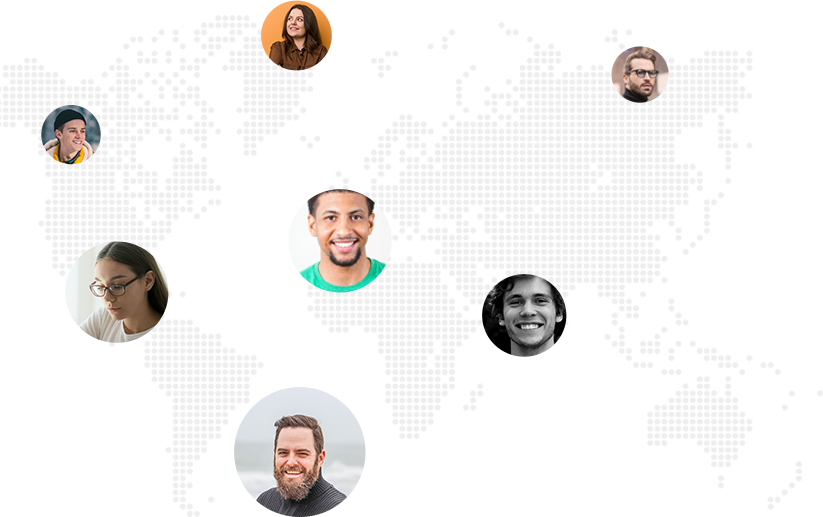
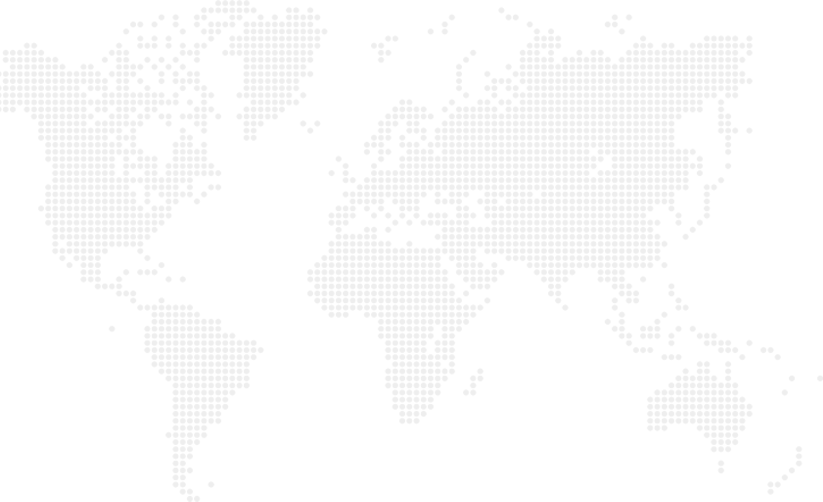
map

diff --git a/css/style.css b/css/style.css
@@ -75,12 +75,14 @@ h1 {
     top: 0;
     background-color: #ffffff;
     padding: 10px;
+    z-index: 2;
 }
 .header .header-navbar {
     display: flex;
     justify-content: space-between;
     align-items: center;
     z-index: 9999;
+   
 }
 .header .header-navbar .header-navbar__logo {
     font-size: 30px;
@@ -795,14 +797,22 @@ margin: 0;
     /* box-sizing: border-box; */
     /* z-index: 99; */
     min-width:315px ;
+    transition: 350ms ease;
 }
 .action_box_left{
-    box-shadow: 0  10px 50px 0;
+    border: 2px solid #ebebeb;
     border-radius: 8px;
     overflow: hidden;
     /* z-index: 1; */
+    transition: 350ms ease;
 }
-
+.action_box_right:hover,
+.action_box_left:hover{
+    box-shadow: 0  10px 50px 0;
+}
+.action_box_left:hover{
+    align-self: stretch;
+}
 .action_box_right_down{
     background-color: #fff;
 }
@@ -813,7 +823,7 @@ margin: 0;
     margin-bottom: 40px;
     display: flex;
     justify-content: center;
-
+user-select: none;
     /* !!!!!! */
     
 
@@ -825,6 +835,7 @@ background-color: rgb(240, 240, 240);
 
 .switcher_blue>input {
     display: none;
+    z-index: -1;
 }
 /* !!!!!! */
 /* .switcher_blue{
@@ -839,6 +850,7 @@ background-color: rgb(240, 240, 240);
     box-shadow: inset rgba(0,0,0,.2) 0 0 .3em;
     transition: 250ms ease;
     padding: 2px 15px 2px 2px;
+    z-index: -1;
 
 }
 
@@ -848,6 +860,7 @@ background-color: rgb(240, 240, 240);
     align-items: center;
     padding-right: 45px;
     line-height:44px;
+    /* z-index: -1; */
    
 }
 .switcher_blue>input+div::before {
@@ -868,7 +881,7 @@ background-color: rgb(240, 240, 240);
     transform: translateX(0);
 
     /* position: absolute; */
-    z-index: 1;
+    /* z-index: -1; */
 }
 
 
@@ -876,13 +889,14 @@ background-color: rgb(240, 240, 240);
 .switcher .switcher_blue>input:checked+div {
     background-color: #2500f9;
     color:#2500f9;
+    /* z-index: 0; */
     
 }
 .switcher_blue>input:checked+div::before {
     background-color: #2500f9;
     transform: translateX(80px);
     /* position: absolute; */
-    z-index: 0;
+    /* z-index: 0; */
       
 }
 
@@ -921,7 +935,7 @@ background-color: rgb(240, 240, 240);
 .satisfaction  .container{
     display: flex;
     max-width: 1600px;
-    
+    align-items: center;
 }
 
 .satisfaction_right h2{
@@ -958,7 +972,43 @@ background-color: rgb(240, 240, 240);
     max-width: 800px;
     flex-basis: 37.5%;
     padding-top:90px ;
+    position: relative;
 }
+.map-avatar{
+    position: absolute;
+    top: 15%;
+    left: 33%;
+}   
+.map-avatar_2{
+    position: absolute;
+    top: 31%;
+    left: 5.5%;
+}  
+.map-avatar_3{
+    position: absolute;
+    top: 54%;
+    left: 8%;
+}  
+.map-avatar_4{
+    position: absolute;
+    top: 45%;
+    left: 36%;
+} 
+.map-avatar_5{
+    position: absolute;
+    top: 77%;
+    left: 29%;
+} 
+.map-avatar_6{
+    position: absolute;
+    top: 60%;
+    left: 60%;
+} 
+.map-avatar_7{
+    position: absolute;
+    top: 22%;
+    left: 76.5%;
+} 
 .satisfaction_hiden{
     flex-basis: 13%;
 }
@@ -994,6 +1044,10 @@ color: #2500f9;
     display: flex;
     align-items: center;
 }
+.worker_information p{
+    margin:-6px 0 0;
+}
+
 @media screen and (max-width: 1200px){
     .satisfaction .container{
         flex-direction: column;
@@ -1074,6 +1128,9 @@ color: #2500f9;
     .question-body>div{
         display: flex;
         justify-content: center;
+    }
+    .question-body .switcher:hover{
+        background-color: rgb(237, 237, 238);
     }
     .question-body input,.question-body .switcher div  { 
         display: none; 

diff --git a/index.html b/index.html
@@ -433,6 +433,13 @@
         <div class="container">
             <div class="satisfaction_left">
             <img src="./images/Map.png" alt="map">     
+            <img src="./images/ava1.png" alt="avatar" class="map-avatar">
+            <img src="./images/ava2.png" alt="avatar" class="map-avatar_2">
+            <img src="./images/ava3.png" alt="avatar" class="map-avatar_3">
+            <img src="./images/ava4.png" alt="avatar" class="map-avatar_4">
+            <img src="./images/ava5.png" alt="avatar" class="map-avatar_5">
+            <img src="./images/ava6.png" alt="avatar" class="map-avatar_6">
+            <img src="./images/ava7.png" alt="avatar" class="map-avatar_7">
             </div>
             <div class="satisfaction_right">
                 <h2>Meet Client Satisfaction
